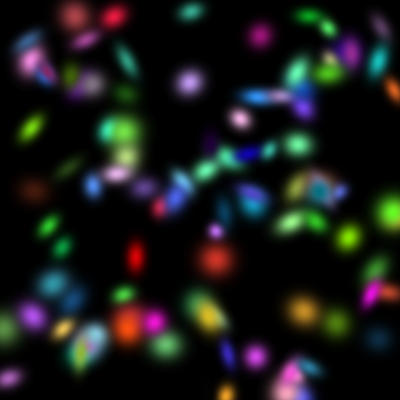
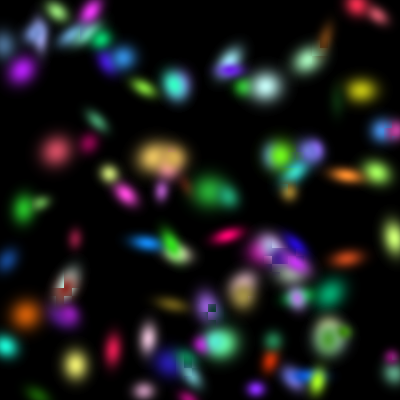
crazy its actually working pretty good edited implementation to do more gaussians per iterations changed .wgsl for shared cache implementation

diff --git a/src/image_gs/gpu_render.rs b/src/image_gs/gpu_render.rs
@@ -83,100 +83,144 @@ impl GpuRenderer {
             compute_pipeline,
         })
     }
-
     pub async fn render_gpu(&self, image_gs: &ImageGS) -> Result<RgbImage, Box<dyn std::error::Error>> {
-        let width = image_gs.width;
-        let height = image_gs.height;
-        let num_gaussians = image_gs.gaussians.len() as u32;
+    let width = image_gs.width;
+    let height = image_gs.height;
+    let num_gaussians = image_gs.gaussians.len() as u32;
 
-        if num_gaussians == 0 {
-            return Ok(ImageBuffer::new(width, height));
-        }
+    if num_gaussians == 0 {
+        return Ok(ImageBuffer::new(width, height));
+    }
 
-        // Convert Gaussians to GPU format
-        let gpu_gaussians: Vec<GpuGaussian> = image_gs.gaussians.iter().map(|g| g.into()).collect();
+    // Convert Gaussians to GPU format
+    let gpu_gaussians: Vec<GpuGaussian> = image_gs.gaussians.iter().map(|g| g.into()).collect();
 
-        // Create GPU buffers
-        let gaussian_buffer = self.device.create_buffer_init(&wgpu::util::BufferInitDescriptor {
-            label: Some("Gaussian Buffer"),
-            contents: bytemuck::cast_slice(&gpu_gaussians),
-            usage: wgpu::BufferUsages::STORAGE,
+    // Create GPU buffers
+    let gaussian_buffer = self.device.create_buffer_init(&wgpu::util::BufferInitDescriptor {
+        label: Some("Gaussian Buffer"),
+        contents: bytemuck::cast_slice(&gpu_gaussians),
+        usage: wgpu::BufferUsages::STORAGE,
+    });
+
+    let params_buffer = self.device.create_buffer_init(&wgpu::util::BufferInitDescriptor {
+        label: Some("Params Buffer"),
+        contents: bytemuck::cast_slice(&[width, height, num_gaussians, 0u32]),
+        usage: wgpu::BufferUsages::UNIFORM,
+    });
+
+    let output_buffer = self.device.create_buffer(&wgpu::BufferDescriptor {
+        label: Some("Output Buffer"),
+        size: (width * height * 4 * std::mem::size_of::<f32>() as u32) as u64,
+        usage: wgpu::BufferUsages::STORAGE | wgpu::BufferUsages::COPY_SRC,
+        mapped_at_creation: false,
+    });
+
+    // ATOMIC BUFFERS - New addition for advanced optimizations
+    let atomic_buffer = self.device.create_buffer(&wgpu::BufferDescriptor {
+        label: Some("Atomic Counter Buffer"),
+        size: std::mem::size_of::<u32>() as u64 * 4, // 4 atomic counters
+        usage: wgpu::BufferUsages::STORAGE | wgpu::BufferUsages::COPY_DST | wgpu::BufferUsages::COPY_SRC,
+        mapped_at_creation: false,
+    });
+
+    // Initialize atomic counters to zero
+    let initial_counters: [u32; 4] = [0, 0, 0, 0];
+    self.queue.write_buffer(&atomic_buffer, 0, bytemuck::cast_slice(&initial_counters));
+
+    // Debug buffer to read back atomic values (optional)
+    let debug_buffer = self.device.create_buffer(&wgpu::BufferDescriptor {
+        label: Some("Debug Atomic Buffer"),
+        size: atomic_buffer.size(),
+        usage: wgpu::BufferUsages::MAP_READ | wgpu::BufferUsages::COPY_DST,
+        mapped_at_creation: false,
+    });
+
+    let staging_buffer = self.device.create_buffer(&wgpu::BufferDescriptor {
+        label: Some("Staging Buffer"),
+        size: output_buffer.size(),
+        usage: wgpu::BufferUsages::MAP_READ | wgpu::BufferUsages::COPY_DST,
+        mapped_at_creation: false,
+    });
+
+    // Create bind group with atomic buffer
+    let bind_group_layout = self.compute_pipeline.get_bind_group_layout(0);
+    let bind_group = self.device.create_bind_group(&wgpu::BindGroupDescriptor {
+        label: Some("Bind Group"),
+        layout: &bind_group_layout,
+        entries: &[
+            wgpu::BindGroupEntry {
+                binding: 0,
+                resource: params_buffer.as_entire_binding(),
+            },
+            wgpu::BindGroupEntry {
+                binding: 1,
+                resource: gaussian_buffer.as_entire_binding(),
+            },
+            wgpu::BindGroupEntry {
+                binding: 2,
+                resource: output_buffer.as_entire_binding(),
+            },
+            wgpu::BindGroupEntry {
+                binding: 3, // NEW: Atomic buffer binding
+                resource: atomic_buffer.as_entire_binding(),
+            },
+        ],
+    });
+
+    // Dispatch compute shader
+    let mut encoder = self.device.create_command_encoder(&wgpu::CommandEncoderDescriptor {
+        label: Some("Compute Encoder"),
+    });
+
+    {
+        let mut compute_pass = encoder.begin_compute_pass(&wgpu::ComputePassDescriptor {
+            label: Some("Gaussian Compute Pass"),
+            timestamp_writes: None,
         });
 
-        let params_buffer = self.device.create_buffer_init(&wgpu::util::BufferInitDescriptor {
-            label: Some("Params Buffer"),
-            contents: bytemuck::cast_slice(&[width, height, num_gaussians, 0u32]),
-            usage: wgpu::BufferUsages::UNIFORM,
-        });
+        compute_pass.set_pipeline(&self.compute_pipeline);
+        compute_pass.set_bind_group(0, &bind_group, &[]);
+        
+        let workgroup_size = 8;
+        let workgroups_x = (width + workgroup_size - 1) / workgroup_size;
+        let workgroups_y = (height + workgroup_size - 1) / workgroup_size;
+        
+        compute_pass.dispatch_workgroups(workgroups_x, workgroups_y, 1);
+    }
 
-        let output_buffer = self.device.create_buffer(&wgpu::BufferDescriptor {
-            label: Some("Output Buffer"),
-            size: (width * height * 4 * std::mem::size_of::<f32>() as u32) as u64,
-            usage: wgpu::BufferUsages::STORAGE | wgpu::BufferUsages::COPY_SRC,
-            mapped_at_creation: false,
-        });
+    // Copy buffers for reading back results
+    encoder.copy_buffer_to_buffer(&output_buffer, 0, &staging_buffer, 0, output_buffer.size());
+    encoder.copy_buffer_to_buffer(&atomic_buffer, 0, &debug_buffer, 0, atomic_buffer.size());
+    
+    self.queue.submit(std::iter::once(encoder.finish()));
 
-        let staging_buffer = self.device.create_buffer(&wgpu::BufferDescriptor {
-            label: Some("Staging Buffer"),
-            size: output_buffer.size(),
-            usage: wgpu::BufferUsages::MAP_READ | wgpu::BufferUsages::COPY_DST,
-            mapped_at_creation: false,
-        });
+    // Read back atomic counters for debugging/optimization FIRST
+    let debug_slice = debug_buffer.slice(..);
+    debug_slice.map_async(wgpu::MapMode::Read, |_| {});
+    self.device.poll(wgpu::Maintain::Wait);
 
-        // Create bind group
-        let bind_group_layout = self.compute_pipeline.get_bind_group_layout(0);
-        let bind_group = self.device.create_bind_group(&wgpu::BindGroupDescriptor {
-            label: Some("Bind Group"),
-            layout: &bind_group_layout,
-            entries: &[
-                wgpu::BindGroupEntry {
-                    binding: 0,
-                    resource: params_buffer.as_entire_binding(),
-                },
-                wgpu::BindGroupEntry {
-                    binding: 1,
-                    resource: gaussian_buffer.as_entire_binding(),
-                },
-                wgpu::BindGroupEntry {
-                    binding: 2,
-                    resource: output_buffer.as_entire_binding(),
-                },
-            ],
-        });
+    let atomic_stats = {
+        let atomic_data = debug_slice.get_mapped_range();
+        let atomic_counters: &[u32] = bytemuck::cast_slice(&atomic_data);
+        // Copy the data we need before dropping the mapping
+        [atomic_counters[0], atomic_counters[1], atomic_counters[2], atomic_counters[3]]
+    }; // atomic_data is dropped here automatically
 
-        // Dispatch compute shader
-        let mut encoder = self.device.create_command_encoder(&wgpu::CommandEncoderDescriptor {
-            label: Some("Compute Encoder"),
-        });
+    // Log atomic counter values for performance analysis
+    println!("GPU Stats - Relevant Gaussians: {}, Shared Cache Hits: {}, Processed Pixels: {}, Debug Counter: {}", 
+        atomic_stats[0], atomic_stats[1], atomic_stats[2], atomic_stats[3]);
 
-        {
-            let mut compute_pass = encoder.begin_compute_pass(&wgpu::ComputePassDescriptor {
-                label: Some("Gaussian Compute Pass"),
-                timestamp_writes: None,
-            });
+    // Read back image results
+    let buffer_slice = staging_buffer.slice(..);
+    buffer_slice.map_async(wgpu::MapMode::Read, |_| {});
+    self.device.poll(wgpu::Maintain::Wait);
 
-            compute_pass.set_pipeline(&self.compute_pipeline);
-            compute_pass.set_bind_group(0, &bind_group, &[]);
-            
-            let workgroup_size = 8;
-            let workgroups_x = (width + workgroup_size - 1) / workgroup_size;
-            let workgroups_y = (height + workgroup_size - 1) / workgroup_size;
-            compute_pass.dispatch_workgroups(workgroups_x, workgroups_y, 1);
-        }
-
-        encoder.copy_buffer_to_buffer(&output_buffer, 0, &staging_buffer, 0, output_buffer.size());
-        self.queue.submit(std::iter::once(encoder.finish()));
-
-        // Read back results
-        let buffer_slice = staging_buffer.slice(..);
-        buffer_slice.map_async(wgpu::MapMode::Read, |_| {});
-        self.device.poll(wgpu::Maintain::Wait);
-
+    // Convert back to image - process data in scope where it's valid
+    let mut image = ImageBuffer::new(width, height);
+    {
         let data = buffer_slice.get_mapped_range();
         let result: &[f32] = bytemuck::cast_slice(&data);
-
-        // Convert back to image
-        let mut image = ImageBuffer::new(width, height);
+        
         for y in 0..height {
             for x in 0..width {
                 let idx = ((y * width + x) * 4) as usize;
@@ -186,7 +230,10 @@ impl GpuRenderer {
                 image.put_pixel(x, y, Rgb([r, g, b]));
             }
         }
-
-        Ok(image)
+        // data is automatically dropped here when scope ends
     }
+
+    Ok(image)
+}
+
 }

diff --git a/src/image_gs/adaptive.rs b/src/image_gs/adaptive.rs
@@ -6,6 +6,9 @@ use image::RgbImage;
 use nalgebra::Vector2;
 use rand::prelude::*;
 
+
+let ADAPTIVE_COUNT=60;
+
 impl ImageGS {
     /// Basic adaptive Gaussian addition
     pub fn adaptive_gaussian_addition(&mut self, target: &RgbImage, rendered: &RgbImage) {
@@ -76,7 +79,7 @@ impl ImageGS {
         error_map.sort_by(|a, b| b.1.partial_cmp(&a.1).unwrap());
         
         let mut rng = thread_rng();
-        let add_count = error_map.len().min(20);
+        let add_count = error_map.len().min(ADAPTIVE_COUNT);
         
         for (pos, _) in error_map.iter().take(add_count) {
             let target_pixel = target.get_pixel(pos.x as u32, pos.y as u32);
@@ -126,7 +129,7 @@ impl ImageGS {
     candidates.sort_by(|a, b| b.1.partial_cmp(&a.1).unwrap());
     
     let mut rng = thread_rng();
-    let add_count = candidates.len().min(20); // Increased from 10 to 20
+    let add_count = candidates.len().min(ADAPTIVE_COUNT); 
     
     for (pos, _) in candidates.iter().take(add_count) {
         let target_pixel = target.get_pixel(pos.x as u32, pos.y as u32);
@@ -142,7 +145,7 @@ impl ImageGS {
             *pos,
             rng.gen_range(0.0..std::f32::consts::PI),
             Vector2::new(
-                rng.gen_range(6.0..16.0), // Larger Gaussians
+                rng.gen_range(6.0..16.0),
                 rng.gen_range(6.0..16.0),
             ),
             color,

diff --git a/src/image_gs/implementation.rs b/src/image_gs/implementation.rs
@@ -7,6 +7,7 @@ use nalgebra::Vector2;
 use rand::prelude::*;
 use rayon::prelude::*;
 
+const GAUSSIAN_NUMBER: usize = 1000;
 impl ImageGS {
     
     pub fn moderate_adaptive_addition(&mut self, target: &RgbImage, rendered: &RgbImage) {
@@ -34,7 +35,7 @@ impl ImageGS {
     candidates.sort_by(|a, b| b.1.partial_cmp(&a.1).unwrap());
     
     let mut rng = thread_rng();
-    let add_count = candidates.len().min(10); // MAX 10 new Gaussians per iteration
+    let add_count = candidates.len().min(GAUSSIAN_NUMBER);
     
     for (pos, _) in candidates.iter().take(add_count) {
         let target_pixel = target.get_pixel(pos.x as u32, pos.y as u32);
